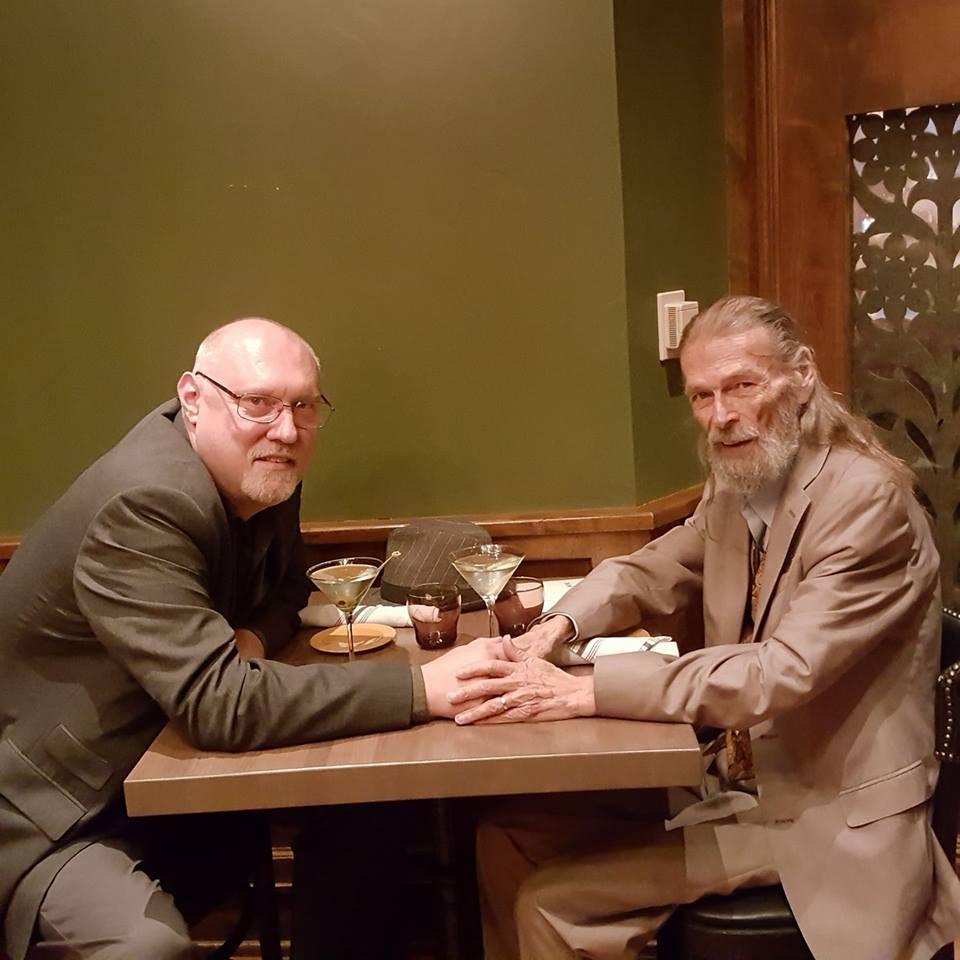
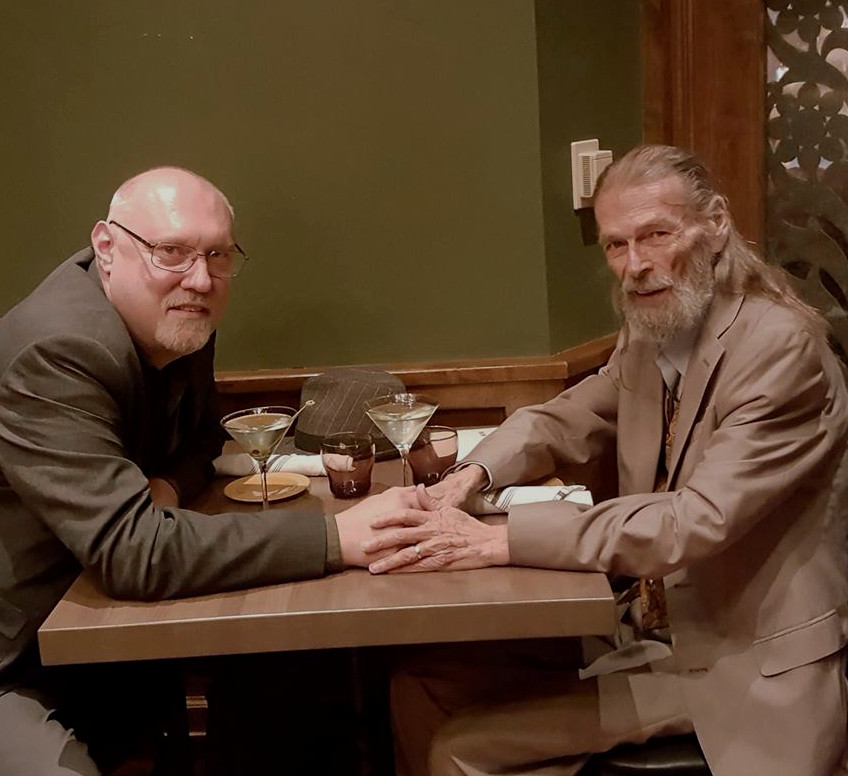
changed about and book pages

diff --git a/about.html b/about.html
@@ -38,7 +38,7 @@
 	</div>
 
 		<div class="about">
-				<img src="images/096.jpg" style="float: right;width: 500px;height: 400px; margin-left: 5%; margin-top: 2.5%;"> <p style="text-align: left; margin-top: 2%; padding-right: 2.5px; padding-bottom: 2.5%;">
+				<img src="images/Vampiree.jpg" style="float: right;width: 500px;height: 400px; margin-left: 5%; margin-top: 2.5%;"> <p style="text-align: left; margin-top: 2%; padding-right: 2.5px; padding-bottom: 2.5%;">
 
 						Growing up on the border of the Massachusetts/Rhode Island line, Peter’s undergraduate
 						work took place for the first two years at the Community College of Rhode Island, pursuing a

diff --git a/aliveafterdying.html b/aliveafterdying.html
@@ -32,7 +32,7 @@
 
 	    <div class="row">
 		  <div class="about">
-		   	<img src="images/PeterGLBookCover4.png" width="400px" height="600px">
+		   	<img src="images/PeterGLBookCoverFinal.png" width="400px" height="600px">
 		  </div>
 		  	<div class="about">
 			  	<p style="text-align: center; padding-right: 2.5px; padding-bottom: 2.5%;">Peter will be releasing in 2022 a memoir aptly named “ALIVE AFTER DYING:

diff --git a/books.html b/books.html
@@ -36,7 +36,7 @@
 		  	<p style="float: center;"> Books: <br> (Click the covers to see more details) <br> </p>
 		  	<br>
 		  	<a href="aliveafterdying.html">
-		   	<img src="images/PeterGLBookCover4.png" width="400px" height="600px">
+		   	<img src="images/PeterGLBookCoverFinal.png" width="400px" height="600px">
 		   </a>
 		  </div>
 		</div>

diff --git a/index.html b/index.html
@@ -32,7 +32,7 @@
 
 	<div class="row">
 		<div class="about">
-		   	<img src="images/bastetbumpface.jpg" width="550" height="550" alt="Peter Lancellotti Headshot"><br>
+		   	<img src="images/bastetbumpface.jpg" width="650" height="550" alt="Peter Lancellotti Headshot"><br>
 		</div>
 	
 

diff --git a/README.md b/README.md
@@ -7,7 +7,7 @@ Website repository for Peter Lancellotti
 
 *purple g in cover needs brightened*
 
-*switch cat tree photo*
+*switch cat tree photo* -USE VAMPIREE PHOTO-
 
 *check spelling on cover text*
 
